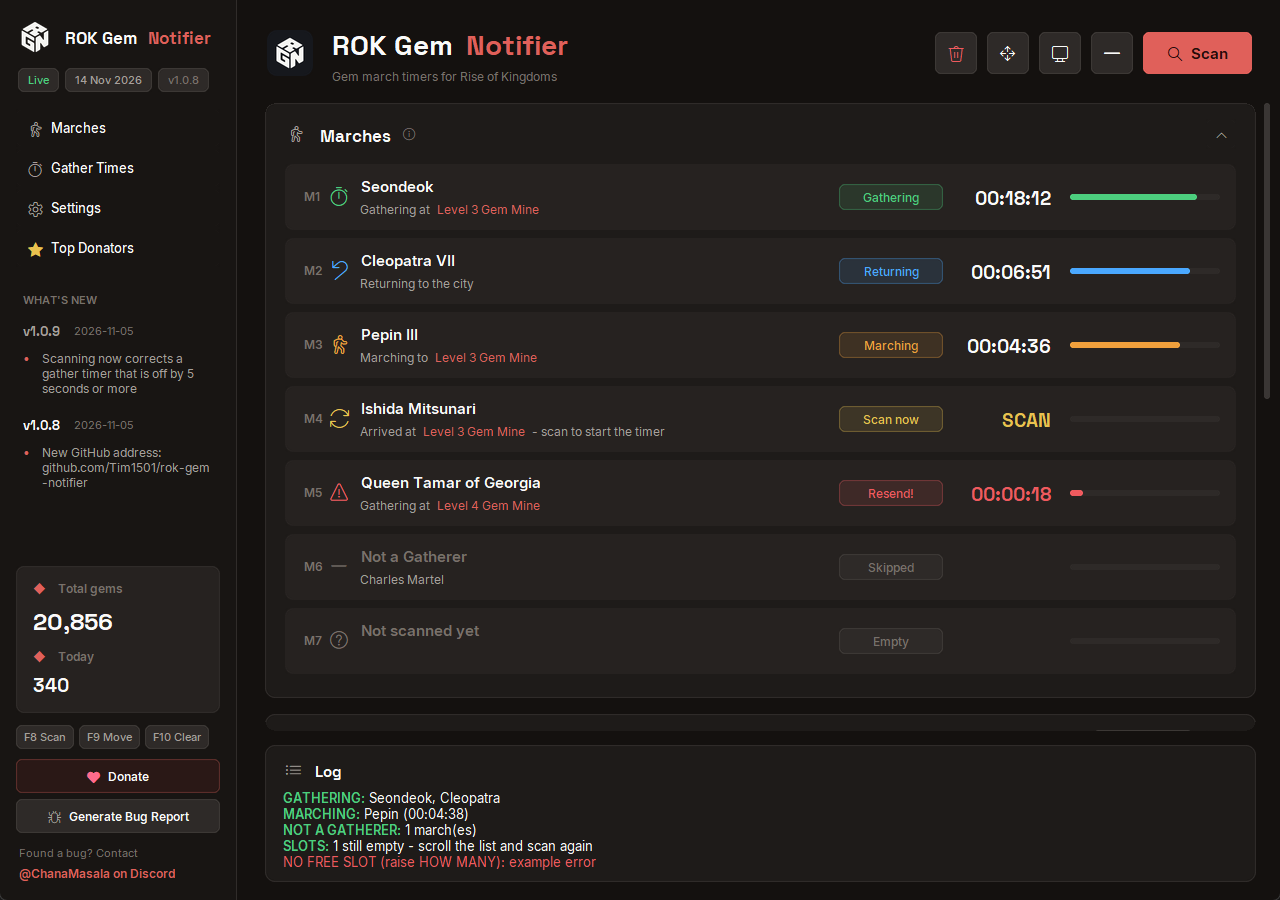
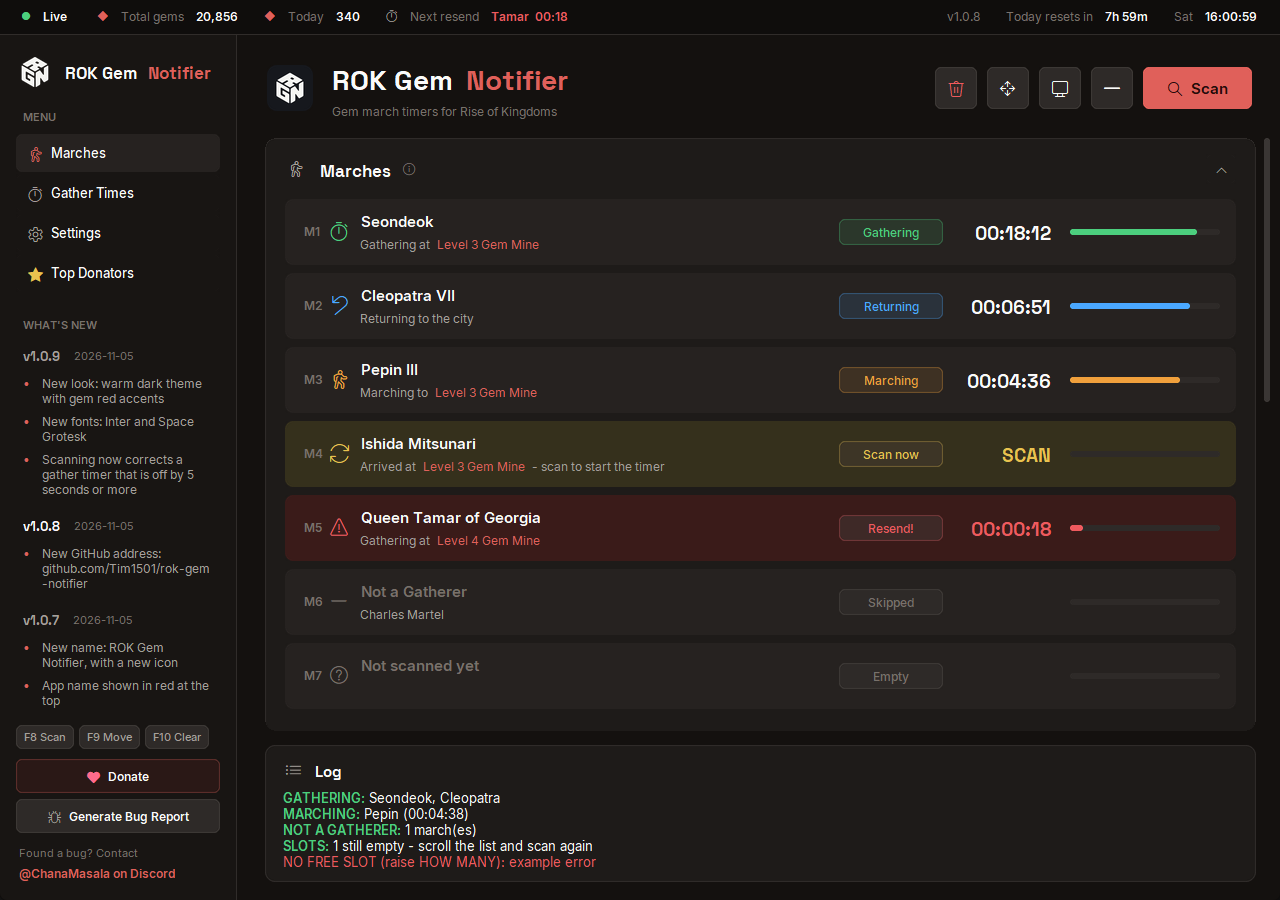
Live top bar (gems, next resend, clock), dark title bar, active menu item, Space Grotesk donator names

diff --git a/source/rok_gem_notifier.py b/source/rok_gem_notifier.py
@@ -136,6 +136,8 @@ CHANGELOG = [
     ("1.0.9", "2026-11-05", [
         "New look: warm dark theme with gem red accents",
         "New fonts: Inter and Space Grotesk",
+        "Live bar at the top: gems, next resend and clock",
+        "Dark title bar and highlighted menu item",
         "Scanning now corrects a gather timer that is off by 5 seconds or more",
     ]),
     ("1.0.8", "2026-11-05", [
@@ -356,6 +358,7 @@ def gem_level(label):
 BG, SIDEBAR, CARD, GROUP = "#14110f", "#181513", "#1e1b19", "#262220"
 FIELD, FIELD_HI, BORDER = "#2e2a28", "#3a3634", "#302c2a"
 EDGE = "#3d3936"           # thin outline of buttons and fields
+TOPBAR = "#0f0d0c"         # live strip along the top of the window
 PANEL, INPUT_BG, LINE = CARD, FIELD, BORDER          # older names, still used by the overlay
 TEXT, MUTED, WHITE = "#a6a09b", "#79716b", "#fafaf9"
 GRAY = MUTED
@@ -1272,6 +1275,25 @@ def rr(w, h, r, fill, outline=None):
     return im
 
 
+def dark_titlebar(win, color):
+    """Windows 11: dark title bar in the app's own colour instead of the white default."""
+    if os.name != "nt":
+        return
+    try:
+        import ctypes
+        win.update_idletasks()
+        hwnd = ctypes.windll.user32.GetParent(win.winfo_id())
+        dwm = ctypes.windll.dwmapi.DwmSetWindowAttribute
+        on = ctypes.c_int(1)
+        dwm(hwnd, 20, ctypes.byref(on), 4)                    # dark mode (Windows 10 2004+)
+        r, g, b = (int(color[i:i + 2], 16) for i in (1, 3, 5))
+        cap = ctypes.c_int(r | g << 8 | b << 16)
+        dwm(hwnd, 35, ctypes.byref(cap), 4)                   # caption colour (Windows 11)
+        dwm(hwnd, 34, ctypes.byref(cap), 4)                   # border colour (Windows 11)
+    except Exception:
+        pass
+
+
 def mix(c1, c2, t):
     """Colour c1 laid over c2 at strength t (0..1), as #rrggbb."""
     a = [int(c1[i:i + 2], 16) for i in (1, 3, 5)]
@@ -1696,6 +1718,7 @@ class App:
         except Exception:
             pass
         root.configure(bg=BG)
+        dark_titlebar(root, TOPBAR)
         root.geometry("1280x900")
         root.minsize(1120, 620)
 
@@ -1773,6 +1796,7 @@ class App:
 
     # ---------- layout
     def build(self):
+        self.build_topbar(self.root)
         side = tk.Frame(self.root, bg=SIDEBAR, width=236)
         side.pack(side="left", fill="y")
         side.pack_propagate(False)
@@ -1803,43 +1827,23 @@ class App:
         self.label(top, "ROK Gem", WHITE, 13, "head").pack(side="left", padx=(10, 0))
         self.label(top, "Notifier", ACCENT, 13, "head").pack(side="left", padx=(4, 0))
 
-        st = tk.Frame(sd, bg=SIDEBAR)
-        st.pack(fill="x", padx=18, pady=(0, 16))
-        ok = self.hotkeys_ok
-        Pill(st, "Live" if ok else "Hotkeys off", h=24, size=8, padx=10, fill=FIELD, kind="med",
-             fg=GREEN if ok else RED,
-             tip=(lambda: " / ".join(key_label(k) for k in self.keys.values())
-                  + " work everywhere, even in the game") if ok else
-             "Hotkeys could not be registered - run the app as administrator").pack(side="left")
-        Pill(st, time.strftime("%d %b %Y"), h=24, size=8, padx=10, fill=FIELD, fg=TEXT,
-             kind="med").pack(side="left", padx=(6, 0))
-        Pill(st, f"v{APP_VERSION}", h=24, size=8, padx=10, fill=FIELD, fg=MUTED,
-             kind="med").pack(side="left", padx=(6, 0))
-
+        self.label(sd, "MENU", MUTED, 8, "semi").pack(anchor="w", padx=20, pady=(4, 6))
+        self.nav = {}
         for key, ic, name in (("marches", "walk", "Marches"), ("times", "timer", "Gather Times"),
                               ("settings", "settings", "Settings")):
-            Pill(sd, name, glyph(ic), lambda k=key: self.goto(k), fill=SIDEBAR, hover=GROUP,
-                 fg=WHITE, icon_fg=TEXT, h=38, size=10, width=204, radius=6, anchor="w",
-                 padx=12, kind="med").pack(padx=16, pady=1, anchor="w")
-        Pill(sd, "Top Donators", glyph("star"), self.show_board, fill=SIDEBAR, hover=GROUP,
-             fg=WHITE, icon_fg=GOLD, h=38, size=10, width=204, radius=6, anchor="w", padx=12,
-             kind="med",
-             tip="Everyone who supports the app").pack(padx=16, pady=1, anchor="w")
+            self.nav[key] = Pill(sd, name, glyph(ic), lambda k=key: self.goto(k), fill=SIDEBAR,
+                                 hover=GROUP, fg=WHITE, icon_fg=TEXT, h=38, size=10, width=204,
+                                 radius=6, anchor="w", padx=12, kind="med")
+            self.nav[key].pack(padx=16, pady=1, anchor="w")
+        self.nav["board"] = Pill(sd, "Top Donators", glyph("star"), self.show_board, fill=SIDEBAR,
+                                 hover=GROUP, fg=WHITE, icon_fg=GOLD, h=38, size=10, width=204,
+                                 radius=6, anchor="w", padx=12, kind="med",
+                                 tip="Everyone who supports the app")
+        self.nav["board"].pack(padx=16, pady=1, anchor="w")
+        self.set_nav("marches")
 
         foot = tk.Frame(sd, bg=SIDEBAR)
         foot.pack(side="bottom", fill="x", padx=16, pady=(0, 16))
-        gem = Box(foot, GROUP, radius=8, pad=(14, 12), outline=BORDER)
-        gem.pack(fill="x", pady=(0, 12))
-        gb = gem.body
-        for row, name in ((0, "Total gems"), (2, "Today")):
-            self.label(gb, "◆", GEM_RED, 9).grid(row=row, column=0, sticky="w")
-            self.label(gb, name, MUTED, 9, "semi").grid(row=row, column=1, sticky="w", padx=(6, 0))
-        self.gem_total = self.label(gb, "", WHITE, 18, "head")
-        self.gem_total.grid(row=1, column=0, columnspan=2, sticky="w", pady=(0, 6))
-        self.gem_day = self.label(gb, "", WHITE, 14, "head")
-        self.gem_day.grid(row=3, column=0, columnspan=2, sticky="w")
-        Tip(gem, "Gem Mine level x = x*10 gems per finished gather (L1 10 ... L4 40).\n"
-                 "Commander talents and buffs are not counted. Today resets at midnight.")
         keys = tk.Frame(foot, bg=SIDEBAR)
         keys.pack(fill="x", pady=(0, 10))
         self.key_chips = {}
@@ -1861,6 +1865,77 @@ class App:
         bug.bind("<Button-1>", lambda e: self.copy_discord())
         Tip(bug, "Click to copy the Discord name")
         self.build_changelog(sd)       # after the footer, so it only takes the space left
+
+    def build_topbar(self, root):
+        """Thin live strip along the top (like kingshot.net): status, gems, next resend, clock."""
+        bar = tk.Frame(root, bg=TOPBAR, height=34)
+        bar.pack(side="top", fill="x")
+        bar.pack_propagate(False)
+        tk.Frame(root, bg=BORDER, height=1).pack(side="top", fill="x")
+        self.tb, self.tb_mark = {}, {}
+
+        def item(key, mark, mark_fg, name, side="left", tip=None, mark_font=None):
+            f = tk.Frame(bar, bg=TOPBAR)
+            f.pack(side=side, padx=(20, 0) if side == "left" else (0, 20))
+            parts = []
+            if mark:
+                m = self.label(f, mark, mark_fg, 8)
+                if mark_font:
+                    m.configure(font=mark_font)
+                m.pack(side="left", padx=(0, 6))
+                parts.append(m)
+            n = self.tb_mark[key] = self.label(f, name, MUTED, 9)
+            n.pack(side="left")
+            v = self.tb[key] = self.label(f, "", WHITE, 9, "semi")
+            v.pack(side="left", padx=(6, 0))
+            if tip:
+                for w in (f, n, v, *parts):
+                    Tip(w, tip)
+
+        ok = self.hotkeys_ok
+        f = tk.Frame(bar, bg=TOPBAR)
+        f.pack(side="left", padx=(18, 4))
+        self.label(f, "●", GREEN if ok else RED, 8).pack(side="left", padx=(0, 6))
+        live = self.label(f, "Live" if ok else "Hotkeys off", WHITE, 9, "semi")
+        live.pack(side="left")
+        Tip(live, (lambda: " / ".join(key_label(k) for k in self.keys.values())
+                   + " work everywhere, even in the game") if ok else
+            "Hotkeys could not be registered - run the app as administrator")
+        gem_tip = ("Gem Mine level x = x*10 gems per finished gather (L1 10 ... L4 40).\n"
+                   "Commander talents and buffs are not counted.")
+        item("total", "◆", GEM_RED, "Total gems", tip=gem_tip)
+        item("today", "◆", GEM_RED, "Today", tip=gem_tip)
+        item("next", glyph("timer"), TEXT, "Next resend", mark_font=icon_font(9),
+             tip="The gather that ends first, and how long it has left")
+        item("clock", "", "", time.strftime("%a"), side="right")
+        item("reset", "", "", "Today resets in", side="right",
+             tip="The Today gem counter starts again at midnight")
+        self.label(bar, f"v{APP_VERSION}", MUTED, 9).pack(side="right", padx=(0, 20))
+
+    def paint_topbar(self, now):
+        self.tb["total"].configure(text=f"{GEMS['total']:,}")
+        self.tb["today"].configure(text=f"{GEMS['daily']:,}")
+        soon = [s for s in slots[:self.n] if s.gatherer and s.gather_due
+                and s.status in ("gathering", "ready")]
+        if soon:
+            s = min(soon, key=lambda s: s.gather_due)
+            left = s.gather_due - now
+            self.tb["next"].configure(text=f"{s.short}  {short(left) if left > 0 else 'NOW'}",
+                                      fg=RED if s.status == "ready" else WHITE)
+        else:
+            self.tb["next"].configure(text="-", fg=MUTED)
+        t = time.localtime(now)
+        mid = 86400 - (t.tm_hour * 3600 + t.tm_min * 60 + t.tm_sec)
+        self.tb["reset"].configure(text=f"{mid // 3600}h {mid % 3600 // 60:02d}m")
+        self.tb["clock"].configure(text=time.strftime("%H:%M:%S", t))
+        self.tb_mark["clock"].configure(text=time.strftime("%a", t))
+
+    def set_nav(self, key):
+        """Highlight the menu item of the page on screen."""
+        for k, p in self.nav.items():
+            on = k == key
+            p.set(fill=GROUP if on else SIDEBAR,
+                  icon_fg=ACCENT if on else GOLD if k == "board" else TEXT)
 
     # ---------- hotkeys
     def register_hotkeys(self):
@@ -2100,7 +2175,8 @@ class App:
         top.pack(fill="x", pady=(0, 16))
         head = tk.Frame(top.body, bg=CARD)
         head.pack(fill="x")
-        Pill(head, "Back", glyph("back"), self.hide_board, h=34, size=9, fill=FIELD,
+        Pill(head, "Back", glyph("back"), lambda: (self.hide_board(), self.set_nav("marches")),
+             h=34, size=9, fill=FIELD,
              hover=FIELD_HI, tip="Back to the timers").pack(side="left")
         self.icon(head, "star", GOLD, 14).pack(side="left", padx=(16, 8))
         self.label(head, "Top Donators", WHITE, 16, "head").pack(side="left")
@@ -2113,7 +2189,7 @@ class App:
                              "donating on PayPal.\n"
                              "It might take a while for me to update the list since I do it "
                              "manually, but thanks again :p",
-                   TEXT, 9, wraplength=760, justify="left", anchor="w").pack(fill="x", pady=(12, 0))
+                   TEXT, 10, wraplength=860, justify="left", anchor="w").pack(fill="x", pady=(12, 0))
         self.board_note = self.label(top.body, "", MUTED, 8, anchor="w")
         self.board_note.pack(fill="x", pady=(4, 0))
         self.board_list = tk.Frame(b, bg=BG)
@@ -2121,6 +2197,7 @@ class App:
         self._medals = {}
 
     def show_board(self):
+        self.set_nav("board")
         if not self.board.winfo_manager():
             self.scroll.pack_forget()
             self.board.pack(fill="both", expand=True, padx=(28, 10), pady=(0, 14))
@@ -2179,7 +2256,7 @@ class App:
         if not donors:
             box = Box(self.board_list, GROUP, radius=8, pad=(20, 18))
             box.pack(fill="x")
-            self.label(box.body, "No donators yet - be the first!", WHITE, 11, "semi").pack(anchor="w")
+            self.label(box.body, "No donators yet - be the first!", WHITE, 13, "head").pack(anchor="w")
             self.label(box.body, "Your name could be at the top of this list.", MUTED, 9).pack(anchor="w")
             return
         for rank, (name, amount, msg) in enumerate(donors, 1):
@@ -2190,7 +2267,7 @@ class App:
             mid = tk.Frame(rb, bg=GROUP)
             mid.pack(side="left", fill="x", expand=True)
             self.label(mid, name, CROWNS[rank][0] if rank in CROWNS else WHITE,
-                       12 if rank <= 3 else 11, "semi", anchor="w").pack(anchor="w")
+                       14 if rank <= 3 else 12, "head", anchor="w").pack(anchor="w")
             if msg:
                 self.label(mid, f'"{msg}"', MUTED, 9, anchor="w").pack(anchor="w")
             self.label(rb, fmt_money(cur, amount), GREEN, 14 if rank <= 3 else 12, "head"
@@ -2259,6 +2336,7 @@ class App:
 
     def goto(self, key):
         self.hide_board()
+        self.set_nav(key)
         if key in self.collapsed:
             self.toggle_section(key)
         self.scroll.scroll_to(self.sec[key]["box"])
@@ -2998,8 +3076,7 @@ class App:
         if self.tray:
             self.keep_overlay()
         roll_day()
-        self.gem_total.configure(text=f"{GEMS['total']:,}")
-        self.gem_day.configure(text=f"{GEMS['daily']:,}")
+        self.paint_topbar(now)
         if changed:
             self.save_state()
 
